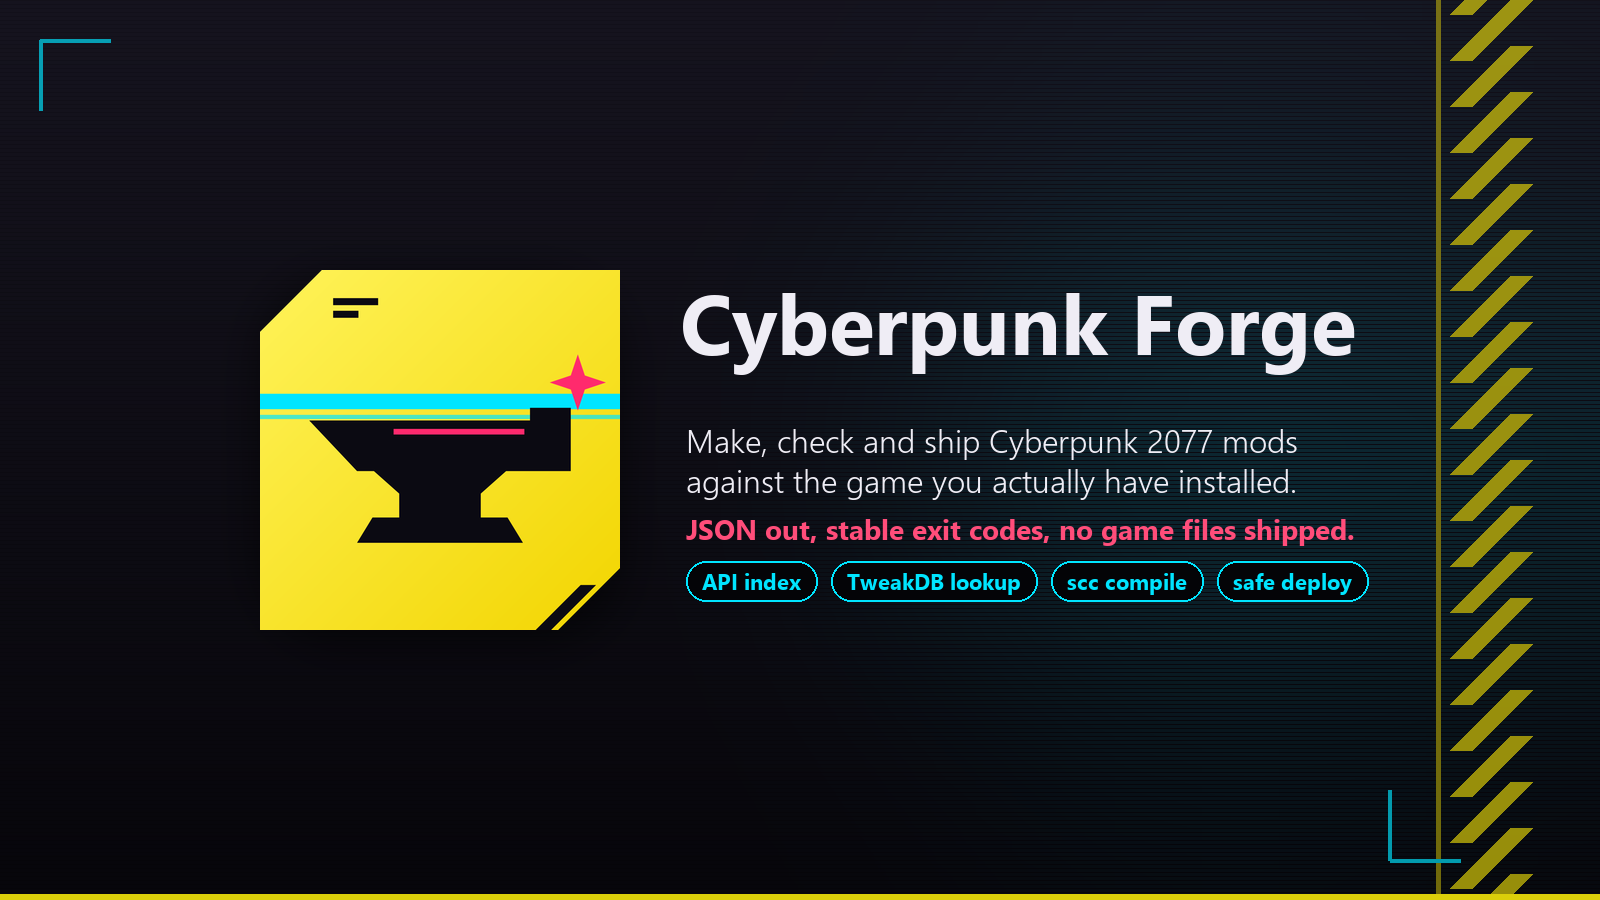
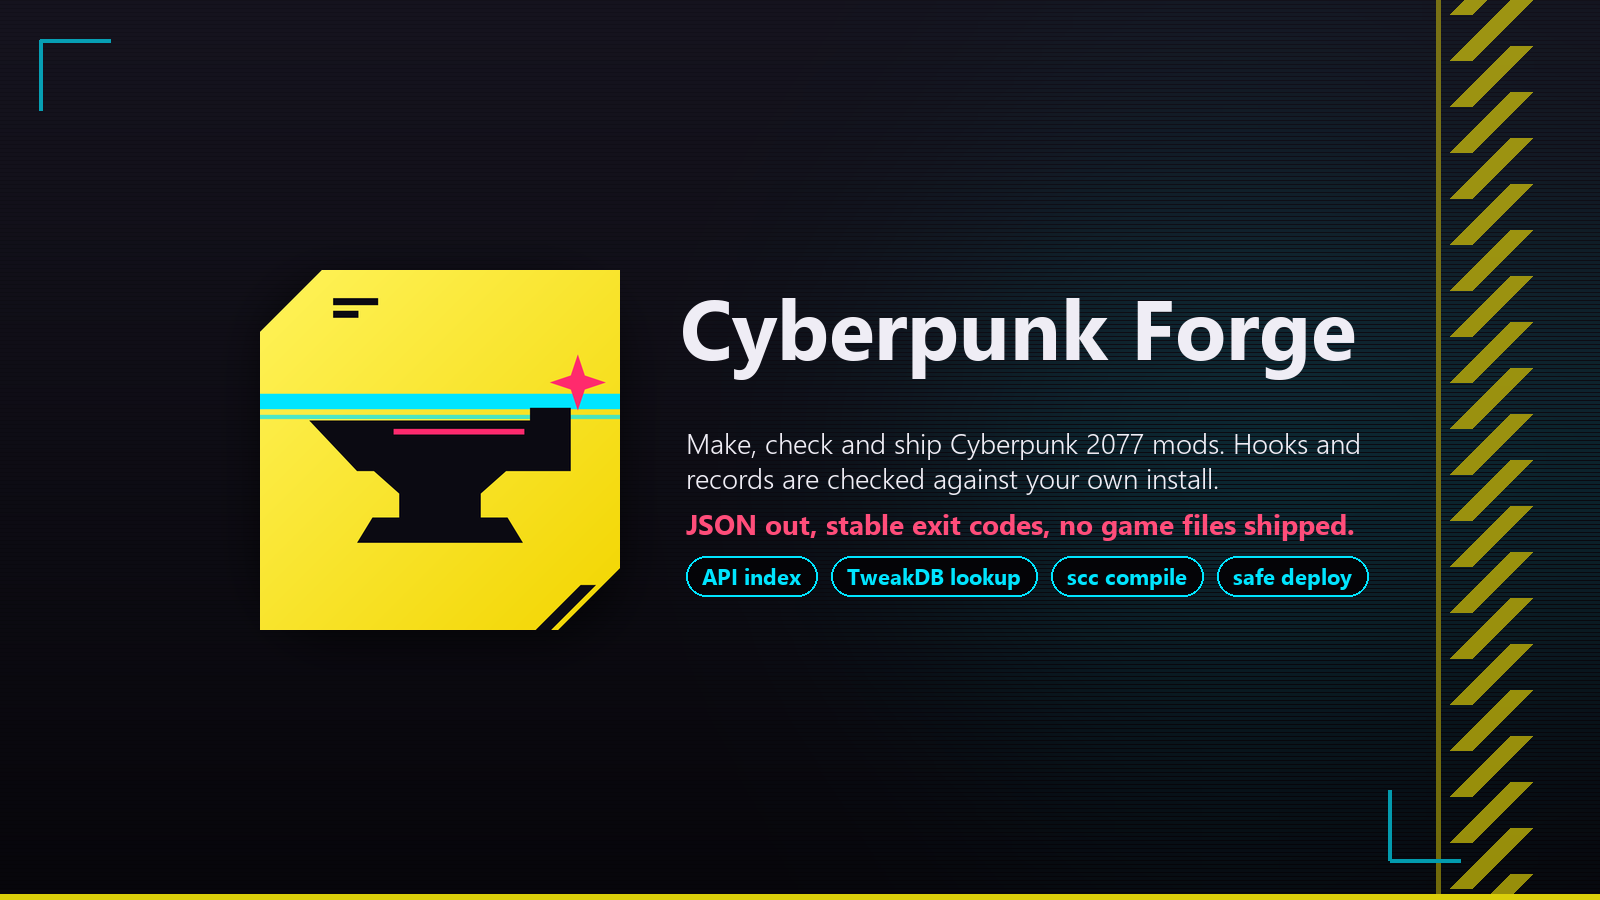
docs: cover tagline in the forge's own words, social preview clear of the stripes, vehicle row in Commands

Changed region(s): [[0.4375, 0.4667, 0.8438, 0.6844], [0.4375, 0.3111, 0.8438, 0.4356]]

diff --git a/README.md b/README.md
@@ -1,6 +1,6 @@
 <div align="center">
 
-![Cyberpunk Forge: a black anvil on a yellow cut-corner tile with a cyan scan bar, next to the tagline 'Make, check and ship Cyberpunk 2077 mods against the game you actually have installed.'](docs/presentation/hero.png)
+![Cyberpunk Forge: a black anvil on a yellow cut-corner tile with a cyan scan bar, next to the tagline 'Make, check and ship Cyberpunk 2077 mods. Hooks and records are checked against your own install.'](docs/presentation/hero.png)
 
 [![CI](https://github.com/SenjuWoo/Cyberpunk-Forge/actions/workflows/ci.yml/badge.svg)](https://github.com/SenjuWoo/Cyberpunk-Forge/actions/workflows/ci.yml)
 [![Release](https://img.shields.io/github/v/release/SenjuWoo/Cyberpunk-Forge?color=fcee0a)](https://github.com/SenjuWoo/Cyberpunk-Forge/releases)
@@ -118,6 +118,7 @@ commands and their options as JSON, generated from the parser.
 | Release zip, any zip check | `cpforge package` · `cpforge validate mod.zip` |
 | Test install and removal | `cpforge deploy [--dry-run] [--force]` · `cpforge undeploy [--dry-run]` |
 | Version and Nexus page | `cpforge bump major\|minor\|patch\|X.Y.Z` · `cpforge nexus` |
+| Build a new drivable car (step-by-step notes from a finished car build) | `cpforge plan "new drivable car"` · `cpforge knowledge vehicles` |
 
 ![Terminal: cpforge plan "add a new jacket to a vendor" picks the tweak-data route, lists new-asset as also relevant and scaffolds --kind tweakxl --kind archivexl; cpforge tweak show Items.Preset_Lexington_Default confirms the record exists in TweakDB as a WeaponItem based on Preset_Base_Lexington, with its vanilla .tweak file; cpforge api class PlayerPuppet --filter OnGameAttached shows the vanilla protected event OnGameAttached returning Bool and the script file and line it is declared in](docs/presentation/screenshot-plan-lookup.png)
 
